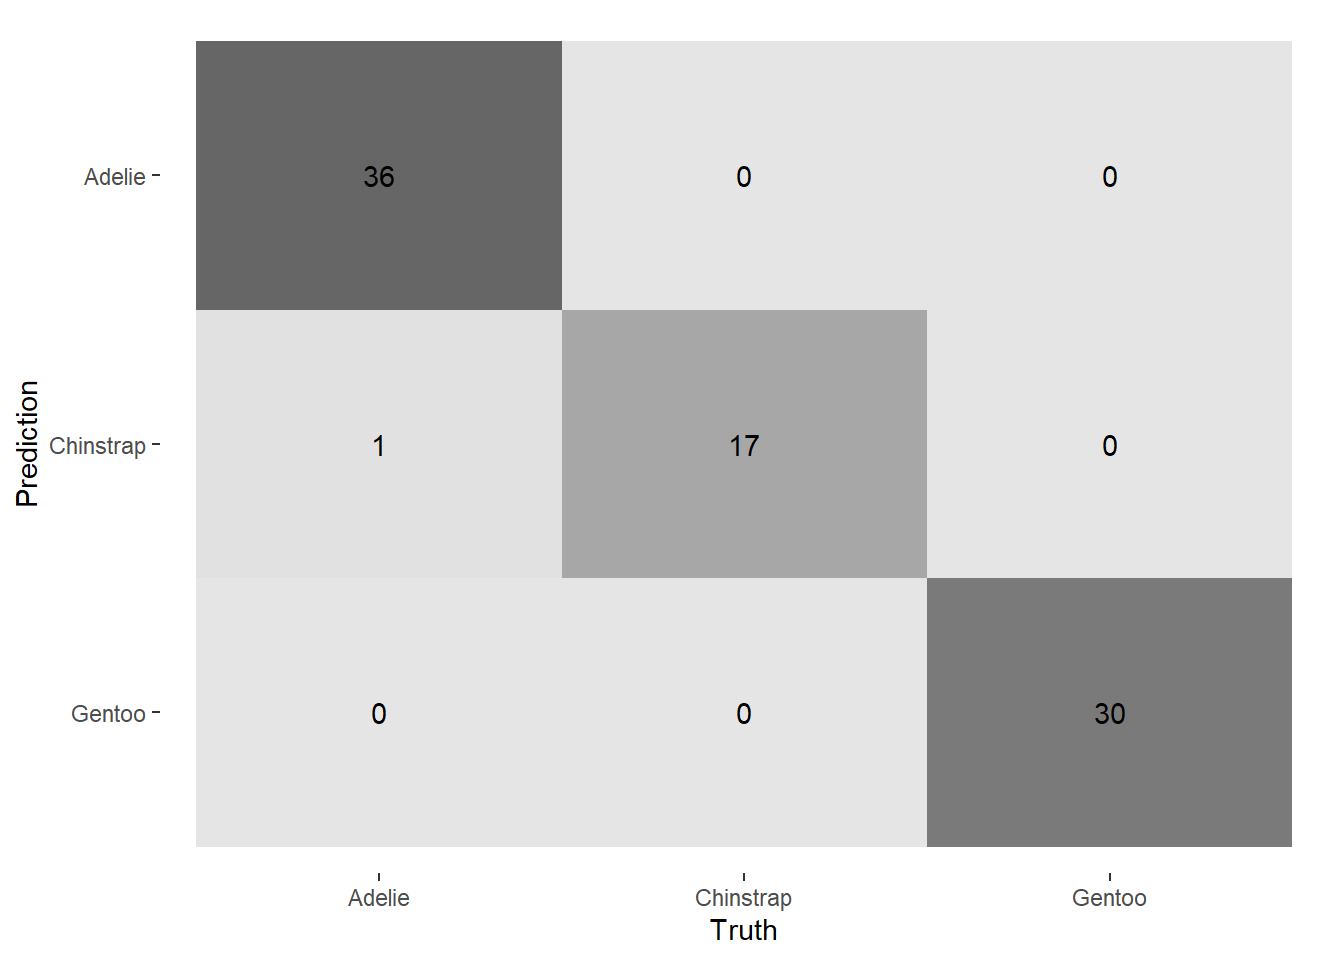
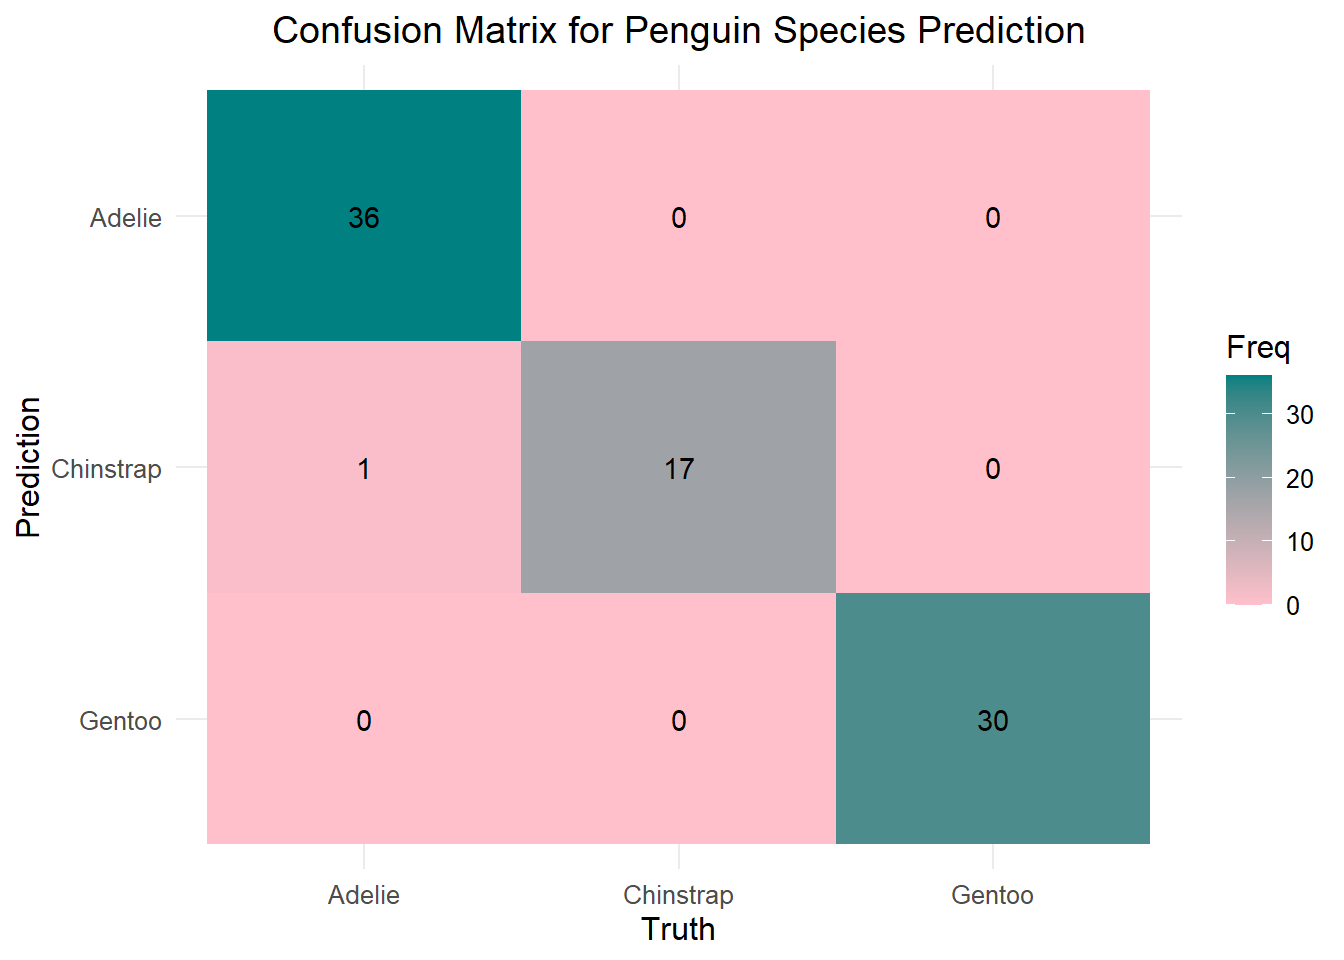
Built site for gh-pages

diff --git a/penguins_model.html b/penguins_model.html
@@ -136,7 +136,7 @@ pre > code.sourceCode > span > a:first-child::before { text-decoration: underlin
   </li>  
   <li class="nav-item">
     <a class="nav-link active" href="./penguins_model.html" aria-current="page"> 
-<span class="menu-text">EDA Dashboard</span></a>
+<span class="menu-text">Classification Model</span></a>
   </li>  
 </ul>
           </div> <!-- /navcollapse -->
@@ -255,9 +255,19 @@ $ year              &lt;int&gt; 2007, 2007, 2007, 2007, 2007, 2007, 2007, 2007, 
 <p>We will evaluate the model’s performance on the test set.</p>
 <div class="cell">
 <div class="sourceCode cell-code" id="cb9"><pre class="sourceCode r code-with-copy"><code class="sourceCode r"><span id="cb9-1"><a href="#cb9-1" aria-hidden="true" tabindex="-1"></a>penguin_results <span class="ot">&lt;-</span> <span class="fu">augment</span>(penguin_fit, <span class="at">new_data =</span> penguin_test)</span>
-<span id="cb9-2"><a href="#cb9-2" aria-hidden="true" tabindex="-1"></a>penguin_results <span class="sc">%&gt;%</span></span>
-<span id="cb9-3"><a href="#cb9-3" aria-hidden="true" tabindex="-1"></a>  <span class="fu">conf_mat</span>(<span class="at">truth =</span> species, <span class="at">estimate =</span> .pred_class) <span class="sc">%&gt;%</span></span>
-<span id="cb9-4"><a href="#cb9-4" aria-hidden="true" tabindex="-1"></a>  <span class="fu">autoplot</span>(<span class="at">type =</span> <span class="st">"heatmap"</span>)</span></code><button title="Copy to Clipboard" class="code-copy-button"><i class="bi"></i></button></pre></div>
+<span id="cb9-2"><a href="#cb9-2" aria-hidden="true" tabindex="-1"></a>conf_matrix <span class="ot">&lt;-</span> penguin_results <span class="sc">%&gt;%</span></span>
+<span id="cb9-3"><a href="#cb9-3" aria-hidden="true" tabindex="-1"></a>  <span class="fu">conf_mat</span>(<span class="at">truth =</span> species, <span class="at">estimate =</span> .pred_class)</span>
+<span id="cb9-4"><a href="#cb9-4" aria-hidden="true" tabindex="-1"></a></span>
+<span id="cb9-5"><a href="#cb9-5" aria-hidden="true" tabindex="-1"></a><span class="fu">autoplot</span>(conf_matrix, <span class="at">type =</span> <span class="st">"heatmap"</span>) <span class="sc">+</span></span>
+<span id="cb9-6"><a href="#cb9-6" aria-hidden="true" tabindex="-1"></a>  <span class="fu">scale_fill_gradient</span>(<span class="at">low =</span> <span class="st">"#FFC0CB"</span>, <span class="at">high =</span> <span class="st">"#008080"</span>) <span class="sc">+</span> </span>
+<span id="cb9-7"><a href="#cb9-7" aria-hidden="true" tabindex="-1"></a>  <span class="fu">ggtitle</span>(<span class="st">"Confusion Matrix for Penguin Species Prediction"</span>) <span class="sc">+</span></span>
+<span id="cb9-8"><a href="#cb9-8" aria-hidden="true" tabindex="-1"></a>  <span class="fu">theme_minimal</span>() <span class="sc">+</span></span>
+<span id="cb9-9"><a href="#cb9-9" aria-hidden="true" tabindex="-1"></a>  <span class="fu">theme</span>(<span class="at">text =</span> <span class="fu">element_text</span>(<span class="at">size =</span> <span class="dv">12</span>),  <span class="co"># Adjust text size for better readability</span></span>
+<span id="cb9-10"><a href="#cb9-10" aria-hidden="true" tabindex="-1"></a>        <span class="at">plot.title =</span> <span class="fu">element_text</span>(<span class="at">hjust =</span> <span class="fl">0.5</span>))  </span></code><button title="Copy to Clipboard" class="code-copy-button"><i class="bi"></i></button></pre></div>
+<div class="cell-output cell-output-stderr">
+<pre><code>Scale for fill is already present.
+Adding another scale for fill, which will replace the existing scale.</code></pre>
+</div>
 <div class="cell-output-display">
 <div>
 <figure class="figure">
@@ -268,9 +278,9 @@ $ year              &lt;int&gt; 2007, 2007, 2007, 2007, 2007, 2007, 2007, 2007, 
 </div>
 <p>Here we calculate accuracy and other relevant metrics.</p>
 <div class="cell">
-<div class="sourceCode cell-code" id="cb10"><pre class="sourceCode r code-with-copy"><code class="sourceCode r"><span id="cb10-1"><a href="#cb10-1" aria-hidden="true" tabindex="-1"></a>accuracy <span class="ot">&lt;-</span> penguin_results <span class="sc">%&gt;%</span></span>
-<span id="cb10-2"><a href="#cb10-2" aria-hidden="true" tabindex="-1"></a>  <span class="fu">accuracy</span>(<span class="at">truth =</span> species, <span class="at">estimate =</span> .pred_class)</span>
-<span id="cb10-3"><a href="#cb10-3" aria-hidden="true" tabindex="-1"></a>accuracy</span></code><button title="Copy to Clipboard" class="code-copy-button"><i class="bi"></i></button></pre></div>
+<div class="sourceCode cell-code" id="cb11"><pre class="sourceCode r code-with-copy"><code class="sourceCode r"><span id="cb11-1"><a href="#cb11-1" aria-hidden="true" tabindex="-1"></a>accuracy <span class="ot">&lt;-</span> penguin_results <span class="sc">%&gt;%</span></span>
+<span id="cb11-2"><a href="#cb11-2" aria-hidden="true" tabindex="-1"></a>  <span class="fu">accuracy</span>(<span class="at">truth =</span> species, <span class="at">estimate =</span> .pred_class)</span>
+<span id="cb11-3"><a href="#cb11-3" aria-hidden="true" tabindex="-1"></a>accuracy</span></code><button title="Copy to Clipboard" class="code-copy-button"><i class="bi"></i></button></pre></div>
 <div class="cell-output cell-output-stdout">
 <pre><code># A tibble: 1 × 3
   .metric  .estimator .estimate
@@ -279,9 +289,9 @@ $ year              &lt;int&gt; 2007, 2007, 2007, 2007, 2007, 2007, 2007, 2007, 
 </div>
 </div>
 <div class="cell">
-<div class="sourceCode cell-code" id="cb12"><pre class="sourceCode r code-with-copy"><code class="sourceCode r"><span id="cb12-1"><a href="#cb12-1" aria-hidden="true" tabindex="-1"></a>sensitivity <span class="ot">&lt;-</span> penguin_results <span class="sc">%&gt;%</span></span>
-<span id="cb12-2"><a href="#cb12-2" aria-hidden="true" tabindex="-1"></a>  <span class="fu">sensitivity</span>(<span class="at">truth =</span> species, <span class="at">estimate =</span> .pred_class, <span class="at">event_level =</span> <span class="st">"second"</span>)</span>
-<span id="cb12-3"><a href="#cb12-3" aria-hidden="true" tabindex="-1"></a>sensitivity</span></code><button title="Copy to Clipboard" class="code-copy-button"><i class="bi"></i></button></pre></div>
+<div class="sourceCode cell-code" id="cb13"><pre class="sourceCode r code-with-copy"><code class="sourceCode r"><span id="cb13-1"><a href="#cb13-1" aria-hidden="true" tabindex="-1"></a>sensitivity <span class="ot">&lt;-</span> penguin_results <span class="sc">%&gt;%</span></span>
+<span id="cb13-2"><a href="#cb13-2" aria-hidden="true" tabindex="-1"></a>  <span class="fu">sensitivity</span>(<span class="at">truth =</span> species, <span class="at">estimate =</span> .pred_class, <span class="at">event_level =</span> <span class="st">"second"</span>)</span>
+<span id="cb13-3"><a href="#cb13-3" aria-hidden="true" tabindex="-1"></a>sensitivity</span></code><button title="Copy to Clipboard" class="code-copy-button"><i class="bi"></i></button></pre></div>
 <div class="cell-output cell-output-stdout">
 <pre><code># A tibble: 1 × 3
   .metric     .estimator .estimate
@@ -290,9 +300,9 @@ $ year              &lt;int&gt; 2007, 2007, 2007, 2007, 2007, 2007, 2007, 2007, 
 </div>
 </div>
 <div class="cell">
-<div class="sourceCode cell-code" id="cb14"><pre class="sourceCode r code-with-copy"><code class="sourceCode r"><span id="cb14-1"><a href="#cb14-1" aria-hidden="true" tabindex="-1"></a>specificity <span class="ot">&lt;-</span> penguin_results <span class="sc">%&gt;%</span></span>
-<span id="cb14-2"><a href="#cb14-2" aria-hidden="true" tabindex="-1"></a>  <span class="fu">specificity</span>(<span class="at">truth =</span> species, <span class="at">estimate =</span> .pred_class, <span class="at">event_level =</span> <span class="st">"second"</span>)</span>
-<span id="cb14-3"><a href="#cb14-3" aria-hidden="true" tabindex="-1"></a>specificity</span></code><button title="Copy to Clipboard" class="code-copy-button"><i class="bi"></i></button></pre></div>
+<div class="sourceCode cell-code" id="cb15"><pre class="sourceCode r code-with-copy"><code class="sourceCode r"><span id="cb15-1"><a href="#cb15-1" aria-hidden="true" tabindex="-1"></a>specificity <span class="ot">&lt;-</span> penguin_results <span class="sc">%&gt;%</span></span>
+<span id="cb15-2"><a href="#cb15-2" aria-hidden="true" tabindex="-1"></a>  <span class="fu">specificity</span>(<span class="at">truth =</span> species, <span class="at">estimate =</span> .pred_class, <span class="at">event_level =</span> <span class="st">"second"</span>)</span>
+<span id="cb15-3"><a href="#cb15-3" aria-hidden="true" tabindex="-1"></a>specificity</span></code><button title="Copy to Clipboard" class="code-copy-button"><i class="bi"></i></button></pre></div>
 <div class="cell-output cell-output-stdout">
 <pre><code># A tibble: 1 × 3
   .metric     .estimator .estimate

diff --git a/model.html b/model.html
@@ -139,7 +139,7 @@ pre > code.sourceCode > span > a:first-child::before { text-decoration: underlin
   </li>  
   <li class="nav-item">
     <a class="nav-link" href="./penguins_model.html"> 
-<span class="menu-text">EDA Dashboard</span></a>
+<span class="menu-text">Classification Model</span></a>
   </li>  
 </ul>
           </div> <!-- /navcollapse -->
@@ -177,7 +177,7 @@ pre > code.sourceCode > span > a:first-child::before { text-decoration: underlin
 </header>
 
 
-<div id="f25d235e" class="cell" data-execution_count="1">
+<div id="411d443a" class="cell" data-execution_count="1">
 <details class="code-fold">
 <summary>Code</summary>
 <div class="sourceCode cell-code" id="cb1"><pre class="sourceCode python code-with-copy"><code class="sourceCode python"><span id="cb1-1"><a href="#cb1-1" aria-hidden="true" tabindex="-1"></a><span class="im">import</span> warnings</span>
@@ -195,7 +195,7 @@ pre > code.sourceCode > span > a:first-child::before { text-decoration: underlin
 </details>
 </div>
 <p>Get Data</p>
-<div id="7ccdc645" class="cell" data-execution_count="2">
+<div id="75bae195" class="cell" data-execution_count="2">
 <details class="code-fold">
 <summary>Code</summary>
 <div class="sourceCode cell-code" id="cb2"><pre class="sourceCode python code-with-copy"><code class="sourceCode python"><span id="cb2-1"><a href="#cb2-1" aria-hidden="true" tabindex="-1"></a>df <span class="op">=</span> penguins.load_penguins().dropna()</span>
@@ -263,7 +263,7 @@ pre > code.sourceCode > span > a:first-child::before { text-decoration: underlin
 </div>
 </div>
 <p>Define Model and Fit</p>
-<div id="06401b93" class="cell" data-execution_count="3">
+<div id="fc2e9fb4" class="cell" data-execution_count="3">
 <details class="code-fold">
 <summary>Code</summary>
 <div class="sourceCode cell-code" id="cb3"><pre class="sourceCode python code-with-copy"><code class="sourceCode python"><span id="cb3-1"><a href="#cb3-1" aria-hidden="true" tabindex="-1"></a>X <span class="op">=</span> get_dummies(df[[<span class="st">'bill_length_mm'</span>, <span class="st">'species'</span>, <span class="st">'sex'</span>]], drop_first <span class="op">=</span> <span class="va">True</span>)</span>
@@ -273,7 +273,7 @@ pre > code.sourceCode > span > a:first-child::before { text-decoration: underlin
 </details>
 </div>
 <p>Get some information</p>
-<div id="1d179731" class="cell" data-execution_count="4">
+<div id="a29f4ffe" class="cell" data-execution_count="4">
 <details class="code-fold">
 <summary>Code</summary>
 <div class="sourceCode cell-code" id="cb4"><pre class="sourceCode python code-with-copy"><code class="sourceCode python"><span id="cb4-1"><a href="#cb4-1" aria-hidden="true" tabindex="-1"></a><span class="bu">print</span>(<span class="ss">f"R^2 </span><span class="sc">{</span>model<span class="sc">.</span>score(X,y)<span class="sc">}</span><span class="ss">"</span>)</span>
@@ -288,14 +288,14 @@ Columns Index(['bill_length_mm', 'species_Chinstrap', 'species_Gentoo', 'sex_mal
 Coefficients [  32.53688677 -298.76553447 1094.86739145  547.36692408]</code></pre>
 </div>
 </div>
-<div id="34ebe742" class="cell" data-execution_count="5">
+<div id="d4e20685" class="cell" data-execution_count="5">
 <details class="code-fold">
 <summary>Code</summary>
 <div class="sourceCode cell-code" id="cb6"><pre class="sourceCode python code-with-copy"><code class="sourceCode python"><span id="cb6-1"><a href="#cb6-1" aria-hidden="true" tabindex="-1"></a><span class="im">from</span> vetiver <span class="im">import</span> VetiverModel</span>
 <span id="cb6-2"><a href="#cb6-2" aria-hidden="true" tabindex="-1"></a>v <span class="op">=</span> VetiverModel(model, model_name<span class="op">=</span><span class="st">'penguin_model'</span>, prototype_data<span class="op">=</span>X)</span></code><button title="Copy to Clipboard" class="code-copy-button"><i class="bi"></i></button></pre></div>
 </details>
 </div>
-<div id="9097fb7f" class="cell" data-execution_count="6">
+<div id="83c52e08" class="cell" data-execution_count="6">
 <details class="code-fold">
 <summary>Code</summary>
 <div class="sourceCode cell-code" id="cb7"><pre class="sourceCode python code-with-copy"><code class="sourceCode python"><span id="cb7-1"><a href="#cb7-1" aria-hidden="true" tabindex="-1"></a><span class="im">import</span> pins</span>
@@ -309,10 +309,10 @@ Coefficients [  32.53688677 -298.76553447 1094.86739145  547.36692408]</code></p
  with vetiver.model_card()
 Writing pin:
 Name: 'penguin_model'
-Version: 20240425T215827Z-19257</code></pre>
+Version: 20240425T220814Z-19257</code></pre>
 </div>
 </div>
-<div id="56945768" class="cell" data-execution_count="7">
+<div id="a009b2bc" class="cell" data-execution_count="7">
 <details class="code-fold">
 <summary>Code</summary>
 <div class="sourceCode cell-code" id="cb9"><pre class="sourceCode python code-with-copy"><code class="sourceCode python"><span id="cb9-1"><a href="#cb9-1" aria-hidden="true" tabindex="-1"></a><span class="co">#from joblib import dump, load</span></span>
@@ -325,14 +325,14 @@ Version: 20240425T215827Z-19257</code></pre>
 <span id="cb9-8"><a href="#cb9-8" aria-hidden="true" tabindex="-1"></a><span class="co">#dump(model, f'{model_directory}/{model_filename}')</span></span></code><button title="Copy to Clipboard" class="code-copy-button"><i class="bi"></i></button></pre></div>
 </details>
 </div>
-<div id="829a2299" class="cell" data-execution_count="8">
+<div id="ce6abc0a" class="cell" data-execution_count="8">
 <details class="code-fold">
 <summary>Code</summary>
 <div class="sourceCode cell-code" id="cb10"><pre class="sourceCode python code-with-copy"><code class="sourceCode python"><span id="cb10-1"><a href="#cb10-1" aria-hidden="true" tabindex="-1"></a><span class="co"># Load the model</span></span>
 <span id="cb10-2"><a href="#cb10-2" aria-hidden="true" tabindex="-1"></a><span class="co">#model = load(f'{model_directory}/{model_filename}')</span></span></code><button title="Copy to Clipboard" class="code-copy-button"><i class="bi"></i></button></pre></div>
 </details>
 </div>
-<div id="ff7075f4" class="cell" data-execution_count="9">
+<div id="7708f85a" class="cell" data-execution_count="9">
 <details class="code-fold">
 <summary>Code</summary>
 <div class="sourceCode cell-code" id="cb11"><pre class="sourceCode python code-with-copy"><code class="sourceCode python"><span id="cb11-1"><a href="#cb11-1" aria-hidden="true" tabindex="-1"></a><span class="co"># Generate a FastAPI app from the vetiver model</span></span>
@@ -346,7 +346,7 @@ Version: 20240425T215827Z-19257</code></pre>
 </details>
 </div>
 <p>Can be accessed through “http://localhost:8080”</p>
-<div id="2b574fc8" class="cell" data-execution_count="10">
+<div id="1cd005d7" class="cell" data-execution_count="10">
 <details class="code-fold">
 <summary>Code</summary>
 <div class="sourceCode cell-code" id="cb12"><pre class="sourceCode python code-with-copy"><code class="sourceCode python"><span id="cb12-1"><a href="#cb12-1" aria-hidden="true" tabindex="-1"></a><span class="co">#import vetiver</span></span>

diff --git a/model-db.html b/model-db.html
@@ -136,7 +136,7 @@ pre > code.sourceCode > span > a:first-child::before { text-decoration: underlin
   </li>  
   <li class="nav-item">
     <a class="nav-link" href="./penguins_model.html"> 
-<span class="menu-text">EDA Dashboard</span></a>
+<span class="menu-text">Classification Model</span></a>
   </li>  
 </ul>
           </div> <!-- /navcollapse -->
@@ -182,7 +182,7 @@ pre > code.sourceCode > span > a:first-child::before { text-decoration: underlin
 </header>
 
 
-<div id="36d8b3f7" class="cell" data-execution_count="1">
+<div id="38371edc" class="cell" data-execution_count="1">
 <details class="code-fold">
 <summary>Code</summary>
 <div class="sourceCode cell-code" id="cb1"><pre class="sourceCode python code-with-copy"><code class="sourceCode python"><span id="cb1-1"><a href="#cb1-1" aria-hidden="true" tabindex="-1"></a><span class="co">#import duckdb</span></span>
@@ -194,7 +194,7 @@ pre > code.sourceCode > span > a:first-child::before { text-decoration: underlin
 </div>
 <section id="get-data" class="level2">
 <h2 class="anchored" data-anchor-id="get-data">Get Data</h2>
-<div id="aa5485c0" class="cell" data-execution_count="2">
+<div id="9b9b293e" class="cell" data-execution_count="2">
 <details class="code-fold">
 <summary>Code</summary>
 <div class="sourceCode cell-code" id="cb2"><pre class="sourceCode python code-with-copy"><code class="sourceCode python"><span id="cb2-1"><a href="#cb2-1" aria-hidden="true" tabindex="-1"></a><span class="co">#con = duckdb.connect('my-db.duckdb')</span></span>
@@ -207,7 +207,7 @@ pre > code.sourceCode > span > a:first-child::before { text-decoration: underlin
 </section>
 <section id="define-model-and-fit" class="level2">
 <h2 class="anchored" data-anchor-id="define-model-and-fit">Define Model and Fit</h2>
-<div id="d5cf4d41" class="cell" data-execution_count="3">
+<div id="44028ef3" class="cell" data-execution_count="3">
 <details class="code-fold">
 <summary>Code</summary>
 <div class="sourceCode cell-code" id="cb3"><pre class="sourceCode python code-with-copy"><code class="sourceCode python"><span id="cb3-1"><a href="#cb3-1" aria-hidden="true" tabindex="-1"></a><span class="co">#X = get_dummies(df[['bill_length_mm', 'species', 'sex']], drop_first = True)</span></span>
@@ -219,7 +219,7 @@ pre > code.sourceCode > span > a:first-child::before { text-decoration: underlin
 </section>
 <section id="get-some-information" class="level2">
 <h2 class="anchored" data-anchor-id="get-some-information">Get some information</h2>
-<div id="06dfc844" class="cell" data-execution_count="4">
+<div id="b6bc4c45" class="cell" data-execution_count="4">
 <details class="code-fold">
 <summary>Code</summary>
 <div class="sourceCode cell-code" id="cb4"><pre class="sourceCode python code-with-copy"><code class="sourceCode python"><span id="cb4-1"><a href="#cb4-1" aria-hidden="true" tabindex="-1"></a><span class="co">#print(f"R^2 {model.score(X,y)}")</span></span>

diff --git a/about.html b/about.html
@@ -102,7 +102,7 @@ ul.task-list li input[type="checkbox"] {
   </li>  
   <li class="nav-item">
     <a class="nav-link" href="./penguins_model.html"> 
-<span class="menu-text">EDA Dashboard</span></a>
+<span class="menu-text">Classification Model</span></a>
   </li>  
 </ul>
           </div> <!-- /navcollapse -->
@@ -146,7 +146,7 @@ ul.task-list li input[type="checkbox"] {
 <p><img src="headshot.jpg" class="img-fluid quarto-figure quarto-figure-left figure-img" alt="Author" width="400"></p>
 </figure>
 </div>
-<p>Karis Desotell is an aspiring data scientist who created this site, overcoming much difficulty and challenging obstacles. She loves penguins and the ocean, and if coding can inspire a love of penguins in others, she is more than happy to pour blood, sweat, and tears into her work to increase that love.</p>
+<p>Karis Desotell is an aspiring data scientist who created this site, overcoming much difficulty and many challenging obstacles. She loves penguins and the ocean, and if coding can inspire a love of penguins in others, she is more than happy to pour blood, sweat, and tears into her work to increase that love.</p>
 
 
 

diff --git a/eda-db.html b/eda-db.html
@@ -136,7 +136,7 @@ pre > code.sourceCode > span > a:first-child::before { text-decoration: underlin
   </li>  
   <li class="nav-item">
     <a class="nav-link" href="./penguins_model.html"> 
-<span class="menu-text">EDA Dashboard</span></a>
+<span class="menu-text">Classification Model</span></a>
   </li>  
 </ul>
           </div> <!-- /navcollapse -->

diff --git a/eda.html b/eda.html
@@ -136,7 +136,7 @@ pre > code.sourceCode > span > a:first-child::before { text-decoration: underlin
   </li>  
   <li class="nav-item">
     <a class="nav-link" href="./penguins_model.html"> 
-<span class="menu-text">EDA Dashboard</span></a>
+<span class="menu-text">Classification Model</span></a>
   </li>  
 </ul>
           </div> <!-- /navcollapse -->

diff --git a/penguins_eda.html b/penguins_eda.html
@@ -136,7 +136,7 @@ pre > code.sourceCode > span > a:first-child::before { text-decoration: underlin
   </li>  
   <li class="nav-item">
     <a class="nav-link" href="./penguins_model.html"> 
-<span class="menu-text">EDA Dashboard</span></a>
+<span class="menu-text">Classification Model</span></a>
   </li>  
 </ul>
           </div> <!-- /navcollapse -->

diff --git a/index.html b/index.html
@@ -102,7 +102,7 @@ ul.task-list li input[type="checkbox"] {
   </li>  
   <li class="nav-item">
     <a class="nav-link" href="./penguins_model.html"> 
-<span class="menu-text">EDA Dashboard</span></a>
+<span class="menu-text">Classification Model</span></a>
   </li>  
 </ul>
           </div> <!-- /navcollapse -->
